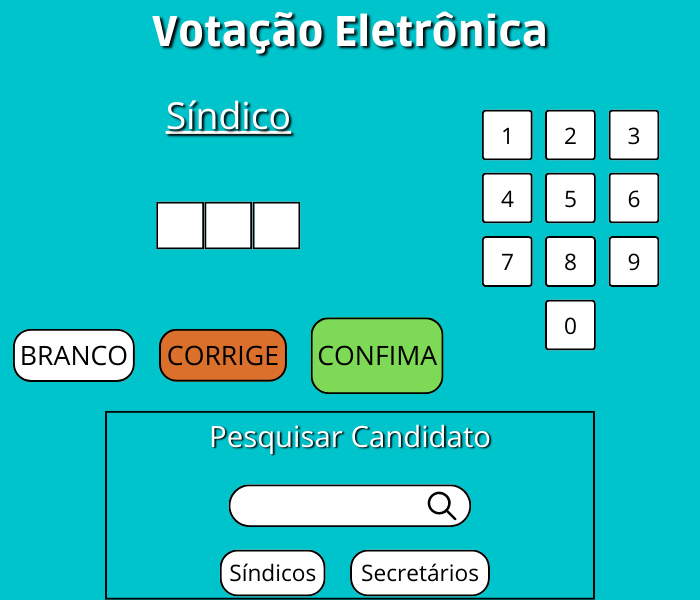
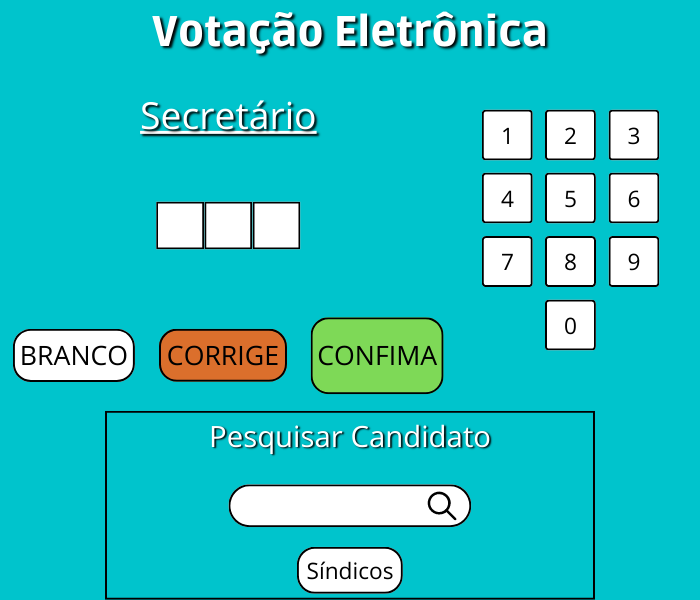
Melhorias
adicionei várias melhorias (no Trello).

Changed region(s): [[0.3, 0.9, 0.72, 1.0], [0.18, 0.15, 0.45, 0.24]]

diff --git a/forms.py b/forms.py
@@ -24,11 +24,15 @@ def form_sindico():
         if nome.get() == '' or proposta.get("1.0", "end-1c") == '' or ap.get() == '' or num.get() == '':
             messagebox.showwarning("Vazio", "Preencha tudo para concluir o cadastro")
         else:
-            p = candidatos.Sindico(nome.get(), proposta.get(
-                "1.0", "end-1c"), ap.get(), num.get())
-            candidatos.Sindico.cad_sindico(p)
-            janela.destroy()
-            lista.mostrar()
+            consul = lista.df.loc[lista.df['Número da Chapa'] == num.get()]
+            if len(consul) > 0:
+                messagebox.showwarning("Erro", "Esta chapa já existe")
+            else:
+                p = candidatos.Sindico(nome.get(), proposta.get(
+                    "1.0", "end-1c"), ap.get(), num.get())
+                candidatos.Sindico.cad_sindico(p)
+                janela.destroy()
+                lista.mostrar()
 
     # imagens cadastrar
     cad = PhotoImage(file="imagens/forms_sindico.png")
@@ -49,8 +53,17 @@ def form_sindico():
     ap = Entry(janela, bd=0, font=("Calibri", 15), highlightcolor="black",
                highlightbackground="black", highlightthickness=2)
     ap.place(width=147, height=44, x=49, y=424)
+
+    # função para limitar o número da chapa
+    def limitar_tamanho(p):
+        if len(p) > 3:
+            return False
+        return True
+
+    vcmd = janela.register(func=limitar_tamanho)
+
     num = Entry(janela, bd=0, font=("Calibri", 15), highlightcolor="black",
-                highlightbackground="black", highlightthickness=2)
+                highlightbackground="black", highlightthickness=2, validate='key', validatecommand=(vcmd, '%P'))
     num.place(width=147, height=44, x=294, y=424)
     but_cad = Button(janela, bd=0, bg="#00c4cc",
                      image=but_cadastro, command=cadastro_sindico)
@@ -82,10 +95,14 @@ def form_secretario():
         if nome.get() == '' or ap.get() == '' or num.get() == '':
             messagebox.showwarning("Vazio", "Preencha tudo para concluir o cadastro")
         else:
-            p = candidatos.Secretario(nome.get(), ap.get(), num.get())
-            candidatos.Secretario.cad_secretario(p)
-            janela.destroy()
-            lista.mostrar()
+            consul = lista.df.loc[lista.df['Número da Chapa'] == num.get()]
+            if len(consul) > 0:
+                messagebox.showwarning("Erro", "Esta chapa já existe")
+            else:
+                p = candidatos.Secretario(nome.get(), ap.get(), num.get())
+                candidatos.Secretario.cad_secretario(p)
+                janela.destroy()
+                lista.mostrar()
 
     # imagens cadastrar
     cad = PhotoImage(file="imagens/forms_secre.png")
@@ -103,8 +120,17 @@ def form_secretario():
     ap = Entry(janela, bd=0, font=("Calibri", 15), highlightcolor="black",
                highlightbackground="black", highlightthickness=2)
     ap.place(width=147, height=44, x=49, y=390)
+
+    # função para limitar o número da chapa
+    def limitar_tamanho(p):
+        if len(p) > 4:
+            return False
+        return True
+
+    vcmd = janela.register(func=limitar_tamanho)
+
     num = Entry(janela, bd=0, font=("Calibri", 15), highlightcolor="black",
-                highlightbackground="black", highlightthickness=2)
+                highlightbackground="black", highlightthickness=2, validate='key', validatecommand=(vcmd, '%P'))
     num.place(width=147, height=44, x=294, y=390)
     but_cad = Button(janela, bd=0, bg="#00c4cc",
                      image=but_cadastro, command=cadastro_secretario)

diff --git a/tela_votacao.py b/tela_votacao.py
@@ -51,6 +51,38 @@ def votar():
                 global clecio
                 clecio = formar(br,rb)
     
+
+    def ver():
+        frame1 = Frame(janela, borderwidth= 2, relief="solid")
+        frame1.place(width=490, height=189, x=105 , y=411)
+            
+        
+        tabela = ttk.Treeview(frame1)
+        tabela["columns"] = ("candidato", "nome", "proposta",
+                            "apartamento", "num_chapa")
+        tabela.column("#0", width=0,  stretch=NO)
+        tabela.column("candidato", anchor="center", width=20)
+        tabela.column("nome", anchor="center", width=15)
+        tabela.column("proposta", anchor="center", width=100)
+        tabela.column("apartamento", anchor="center", width=40)
+        tabela.column("num_chapa", anchor="center", width=65)
+        tabela.heading("#0", text="", anchor="center")
+        tabela.heading("candidato", text="Candidato", anchor="center")
+        tabela.heading("nome", text="Nome", anchor="center")
+        tabela.heading("proposta", text="Proposta", anchor="center")
+        tabela.heading("apartamento", text="Apartamento", anchor="center")
+        tabela.heading("num_chapa", text="Número da Chapa", anchor="center")
+
+        consul = lista.df.loc[lista.df['Candidato'] == 'Secretário'].reset_index(drop=True)
+        for i in range(len(consul)):
+            cand = consul.loc[i]
+            tabela.insert(parent='', index='end', iid=i, text='', values=(
+            cand.Candidato, cand.Nome, cand.Proposta, cand.Apartamento, cand["Número da Chapa"]))
+        
+        tabela.place(width=490, height=189)
+        return frame1
+
+
     def formar(br,rb):
         
         frame1 = Frame(janela, borderwidth= 2, relief="solid")
@@ -130,13 +162,9 @@ def votar():
                             image=branco)
     branca.place(width=122, height=53, x=13, y=329)
 
-    sindico = Button(janela, bd=0, bg="#00c4cc",
-                            image=sindicos)
-    sindico.place(width=106, height=47, x=220, y=549)
-
     secretario = Button(janela, bd=0, bg="#00c4cc",
-                            image=secretarios)
-    secretario.place(width=140, height=47, x=350, y=549)
+                        image=secretarios, command=ver)
+    secretario.place(width=140, height=47, x=280, y=547)
 
     n0 = Button(janela, bd=0, bg="#00c4cc",
                             image=b0, command=lambda: cont("0"))
